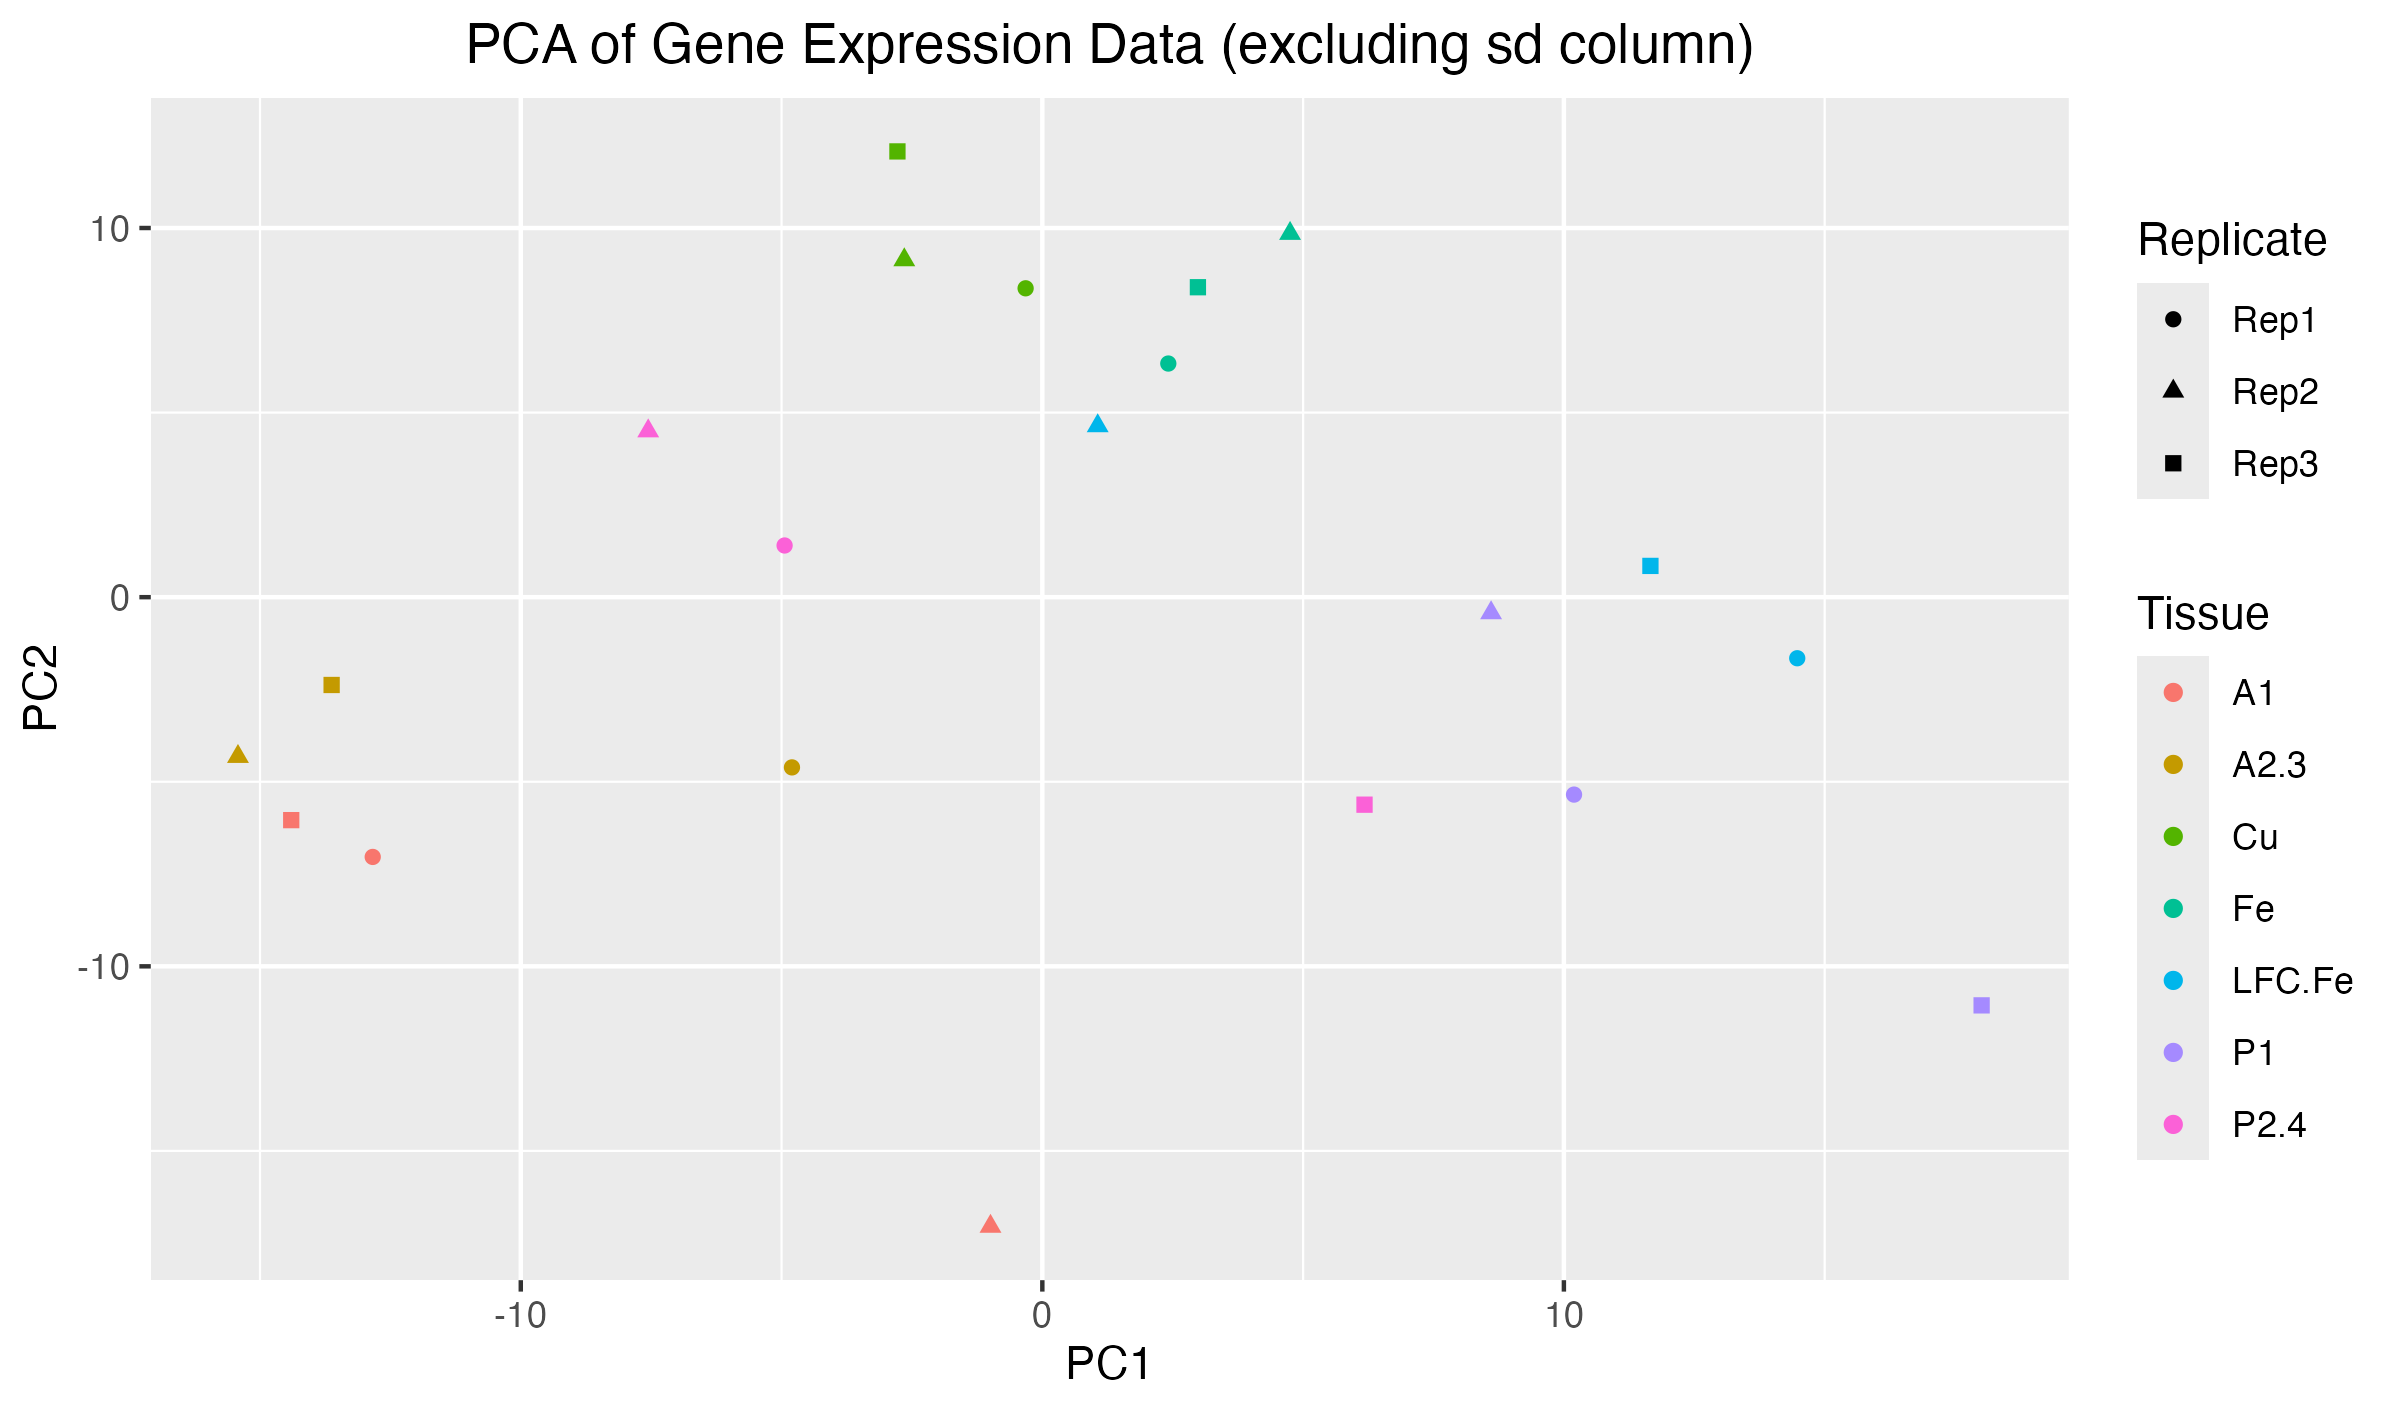
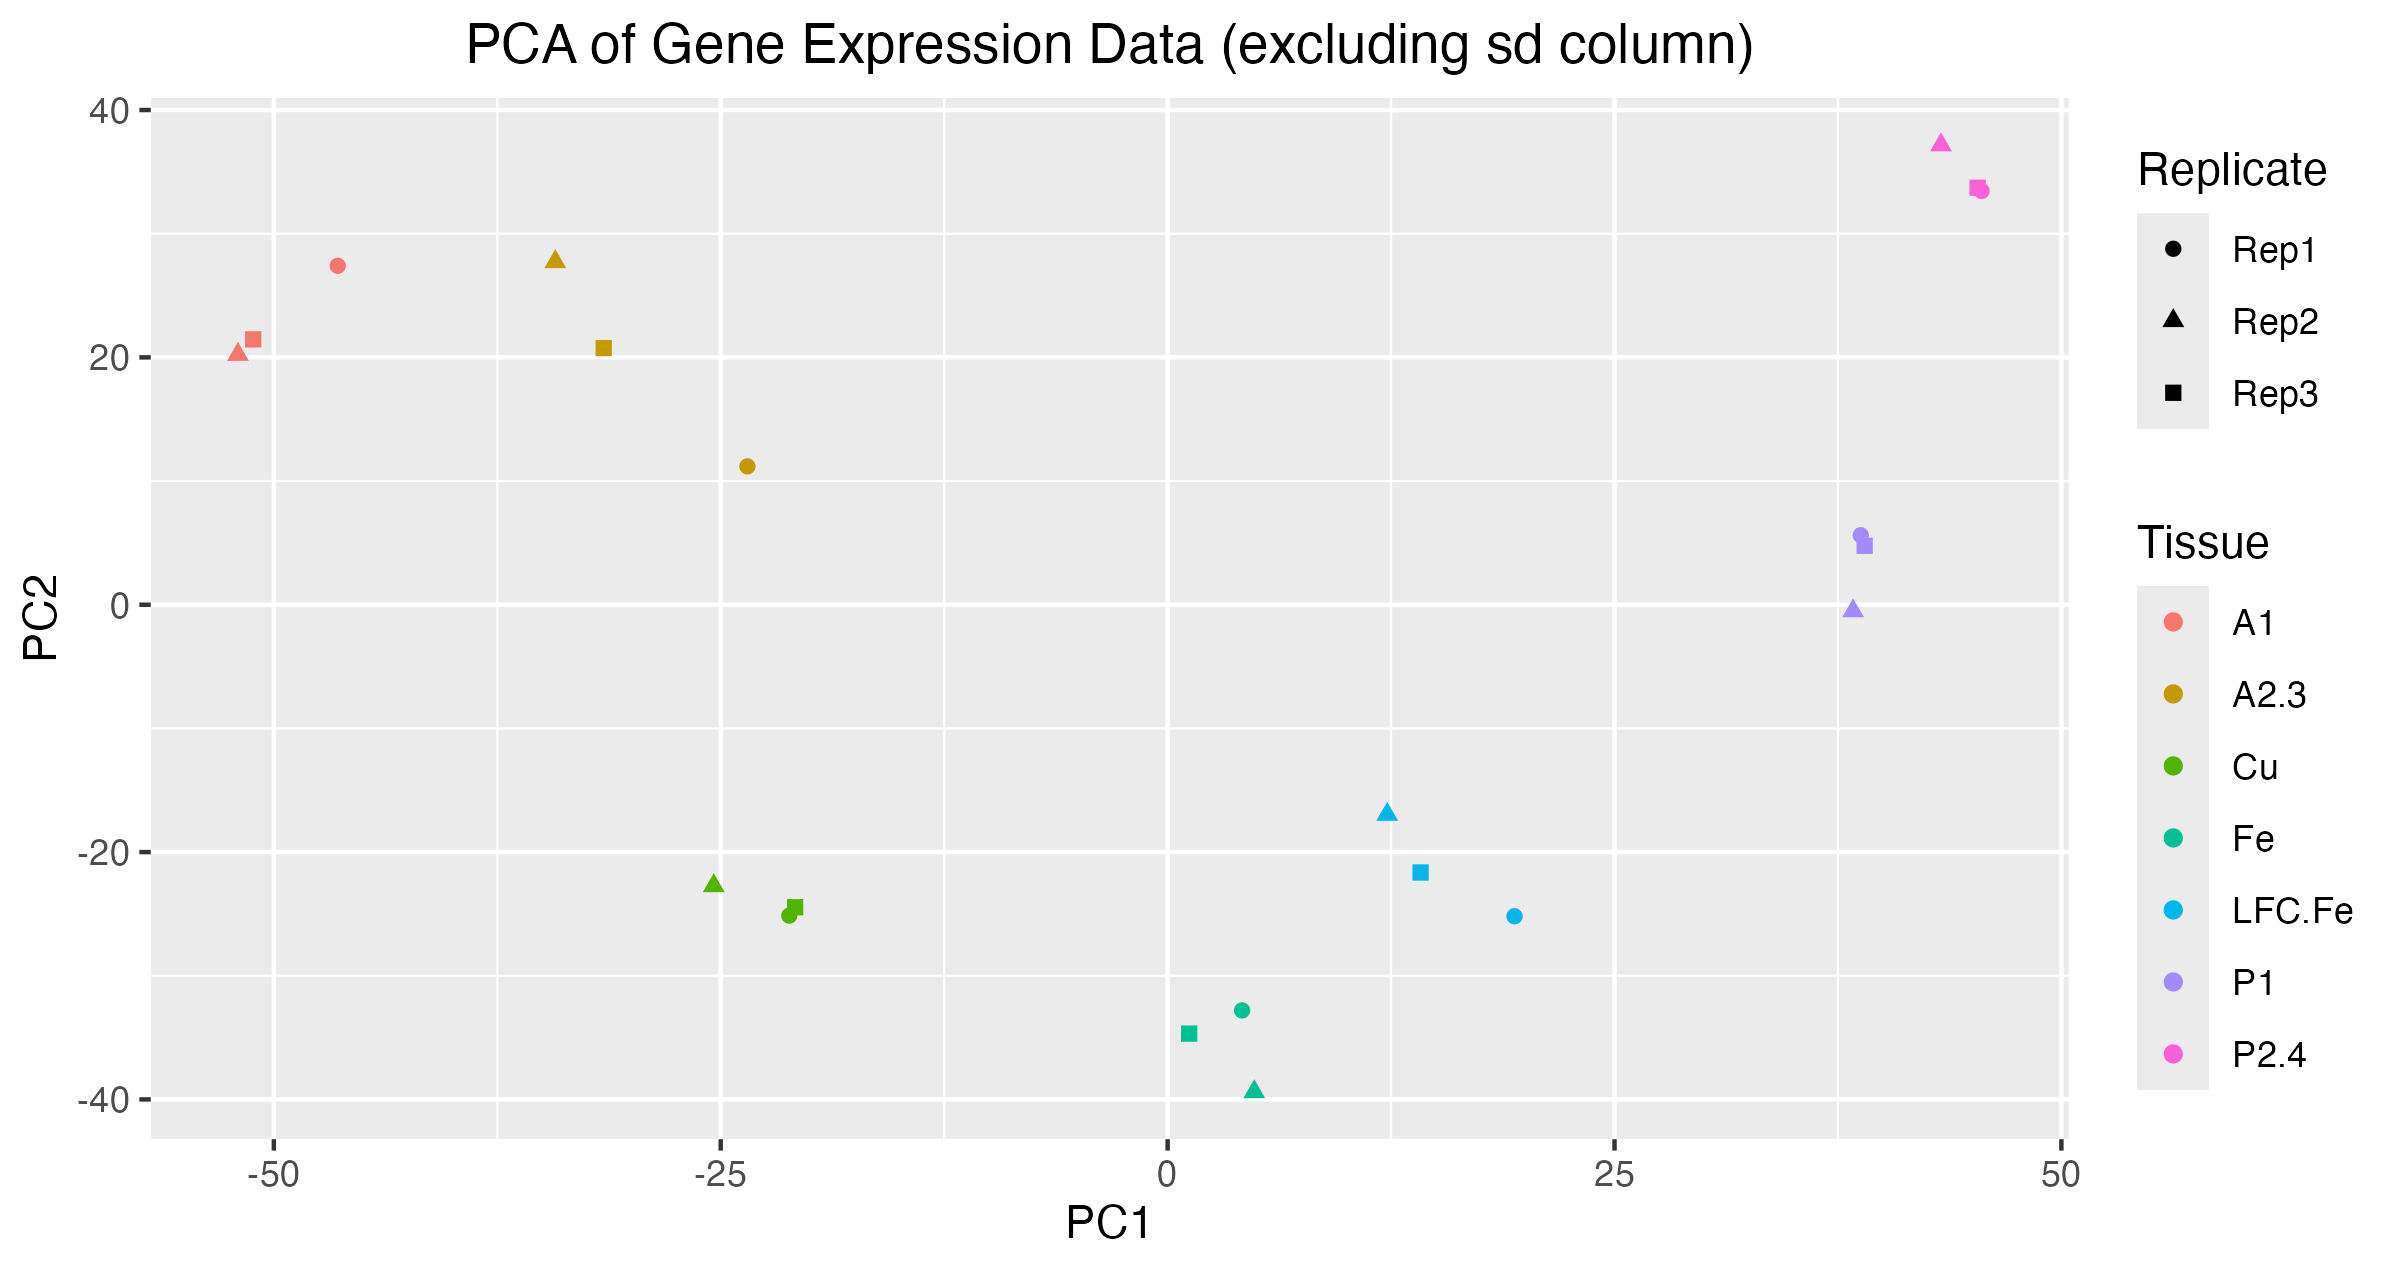
worked with TAs to correct PCOA and some of the README answers but heatmap (and thus clustering) is still not working

diff --git a/week7/README_week7.md b/week7/README_week7.md
@@ -4,17 +4,15 @@ Title: Week 7 Assignment Answers
 
 ## Examine the PCA plot. Does everything look okay?
 
-### NO! All the data points are along the same axis of PC1 and only vary along the axis of PC2. That might mean that PC1 is explaining variance in something experimental that is not relevant for us (maybe batch effect?).
-
-### I looked at a heat map of weights for the PCs next.
+### No. The replicates of tissues Fe and LFC.Fe are not clustering together properly.  
 
 ## What does the PCA plot suggest to you about the data? Why?
 
-### Based on the heat map of weights, it looks like the sd column is throwing everything off. It is highly weighted for PC1 while everything else is very minimally weighted.
+### It looks like, based on the PCA plot on on the raw data table, that LCF.Fe_rep3 and Fe_rep1 may have been switched. I can tell as LFC.Fe_rep3 is clustering with the other Fe samples and Fe_rep1 is clustering with the other LFC.Fe samples. I am going to fix it by "un-swapping" the samples before running the PCA analysis.
 
 ## What feature explains the first principal component (simply saying “tissue” is not sufficient)?
 
-### PC1 seems to be influenced by a negative correlation of Tissues A1 and A2.3 and a positive correlation of Tissues Fe and P1.
+### The tissue clusters are separating along PC1 based on each tissues location along the gut.
 
 # Exercise 3
 
